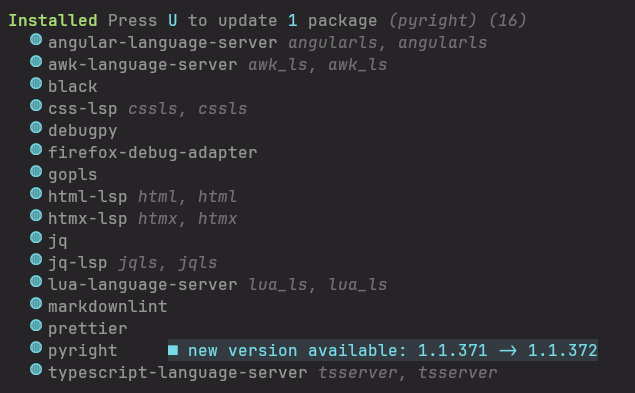
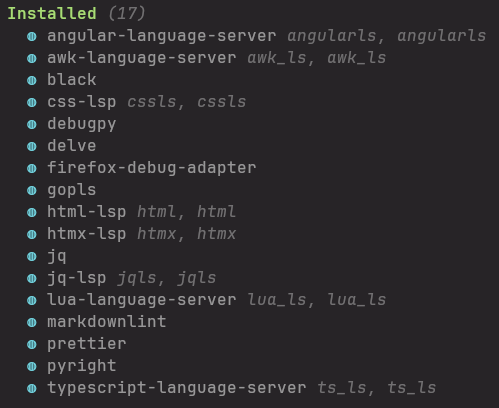
mason and more gitignore

Changed region(s): [[0.0, 0.0, 0.992, 0.9771], [0.6613, 0.7023, 0.7816, 0.7634]]

diff --git a/linux.md b/linux.md
@@ -587,6 +587,13 @@ sudo pacman -S bluez
 sudo systemctl enable bluetooth 
 ```
 
+##### Neovim
+```bash
+cd ~/.local/share/nvim/mason/
+```
+
+/![Mason](./mason.png)
+
 #### 22. Startup
 ```bash
 sudo sh ~/code/scripts/bspwm.sh
